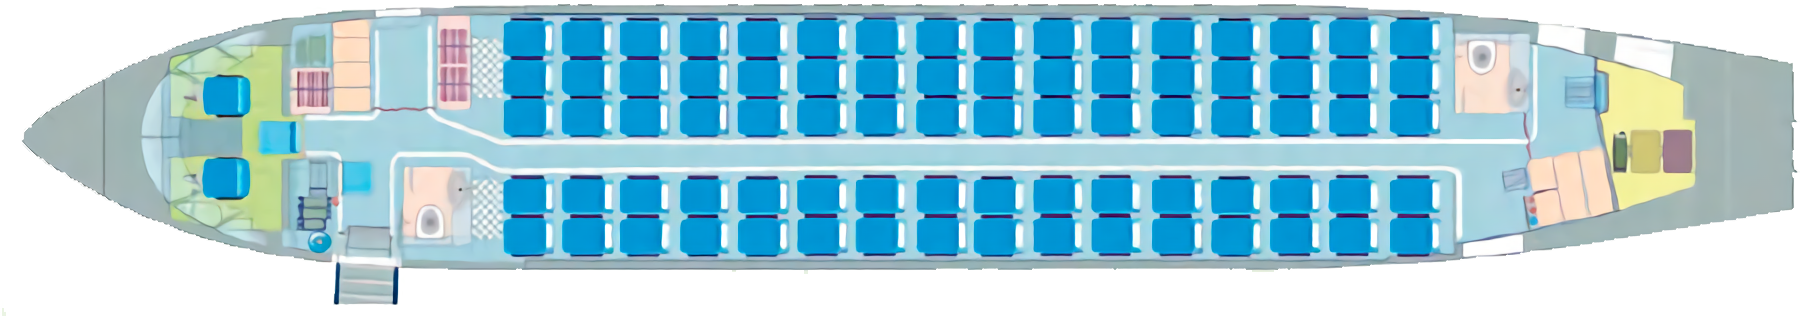
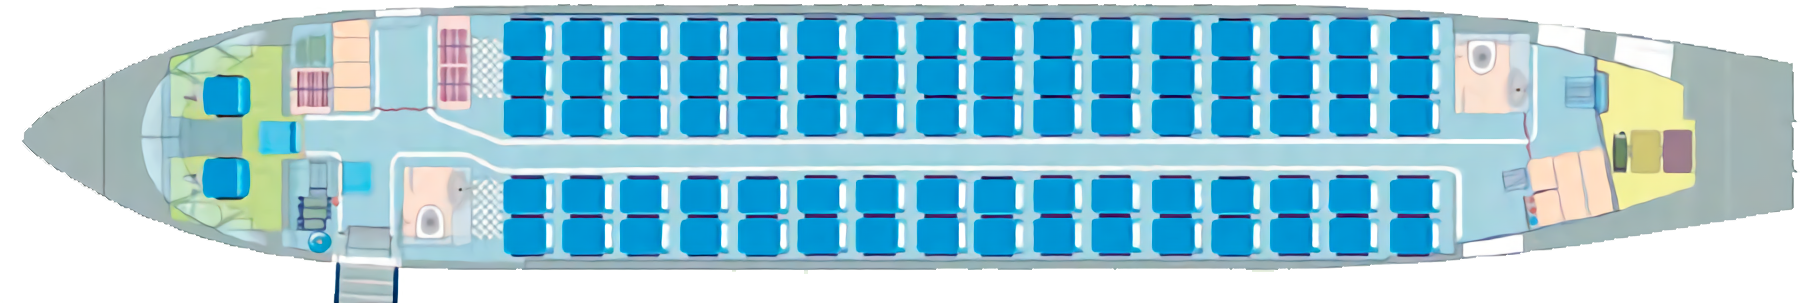
fix(static): fix little things and ЛТХ ending. fix(img): cut white spot on x2 layout.

diff --git a/static/trainingIl.html b/static/trainingIl.html
@@ -1425,17 +1425,23 @@
                     <div class="sponsors">
                         <div class="flex">
                             <div class="p300">
-                                Продажа, лизинг, послепродажное обслуживание:
+                                <h4>Продажа, лизинг, послепродажное обслуживание:</h4>
+                                <br>
+                                "Ильюшин Финанс Ко." (Россия, г.Москва)
                             </div>
                             <div class="p300">
-                                Изготовитель:
+                                <h4>Изготовитель:</h4>
+                                <br>
+                                ОАО "ВАСО" (Россия, г.Воронеж)
                             </div>
                             <div class="p300">
-                                Разработчик:
+                                <h4>Разработчик:</h4>
+                                <br>
+                                Объединенная авиастроительная корпорация (ОАК) (Россия, г.Москва)
                             </div>
                         </div>
 
-                        <div class="flex">
+                        <!-- <div class="flex">
                             <div class="p300">
                                 "Ильюшин Финанс Ко." (Россия, г.Москва)
                             </div>
@@ -1447,7 +1453,7 @@
                             <div class="p300">
                                 Объединенная авиастроительная корпорация (ОАК) (Россия, г.Москва)
                             </div>
-                        </div>
+                        </div> -->
                     </div>
                 </div>
 

diff --git a/static/trainingAn.html b/static/trainingAn.html
@@ -1555,17 +1555,23 @@
                     <div class="sponsors">
                         <div class="flex">
                             <div class="p300">
-                                Продажа, лизинг, послепродажное обслуживание:
+                                <h4>Продажа, лизинг, послепродажное обслуживание:</h4>
+                                <br>
+                                "Ильюшин Финанс Ко." (Россия, г.Москва)
                             </div>
                             <div class="p300">
-                                Изготовитель:
+                                <h4>Изготовитель:</h4>
+                                <br>
+                                ОАО "ВАСО" (Россия, г.Воронеж)
                             </div>
                             <div class="p300">
-                                Разработчик:
+                                <h4>Разработчик:</h4>
+                                <br>
+                                АНТК "Антонов" (Украина, г.Киев)
                             </div>
                         </div>
 
-                        <div class="flex">
+                        <!-- <div class="flex">
                             <div class="p300">
                                 "Ильюшин Финанс Ко." (Россия, г.Москва)
                             </div>
@@ -1577,7 +1583,7 @@
                             <div class="p300">
                                 АНТК "Антонов" (Украина, г.Киев)
                             </div>
-                        </div>
+                        </div> -->
                     </div>
                 </div>
 

diff --git a/static/main.html b/static/main.html
@@ -283,10 +283,7 @@
                     </div>
                     <br />
                     <ul class="about-list">
-                        <li>
-                            Заключение договоров на обучение летного и инженерно-технического
-                            персонала Ан-148
-                        </li>
+                        <li>Заключение договоров на обучение летного и инженерно-технического персонала Ан-148</li>
                         <li>Организация размещения тренажеров</li>
                         <li>Сдача тренажеров самолета Ан-148 в "сухой" лизинг</li>
                         <li>Организация "ввода в строй" пилотов</li>
